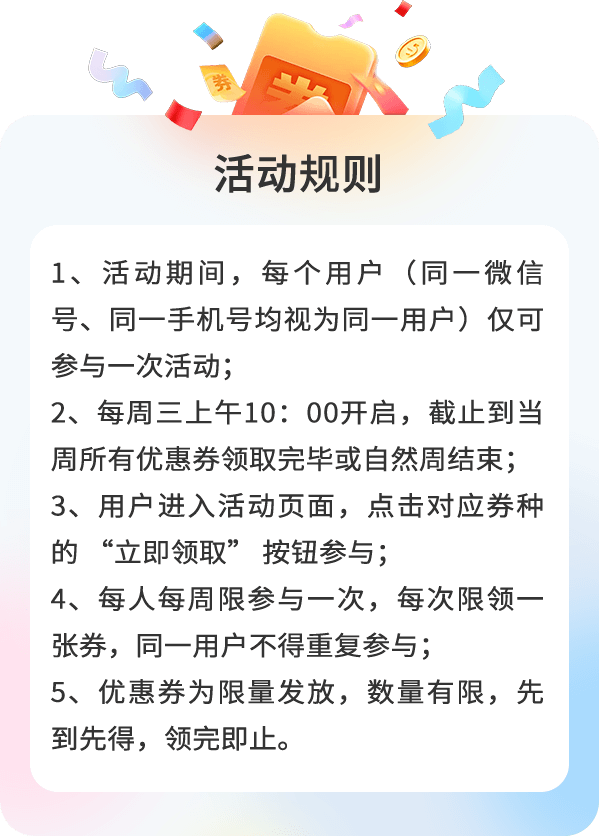
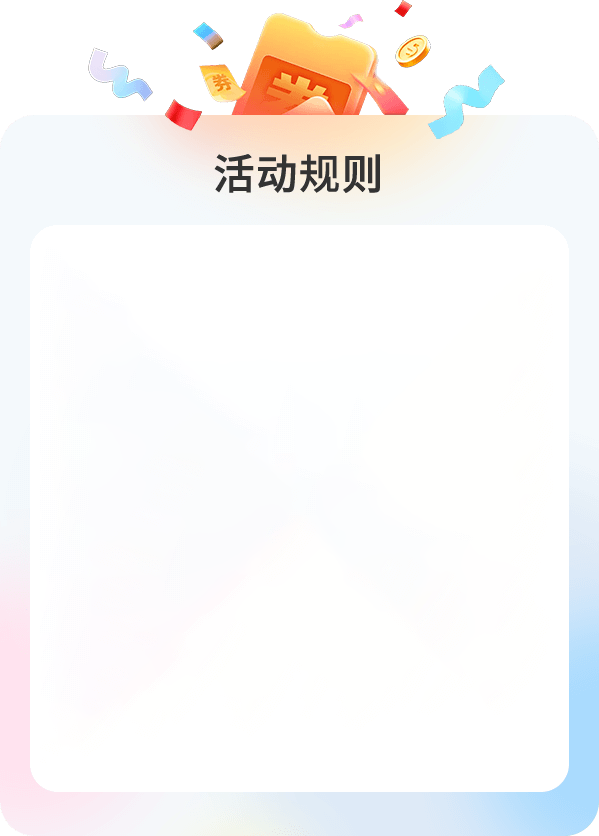
1

diff --git a/src/views/Coupons/index.vue b/src/views/Coupons/index.vue
@@ -83,7 +83,14 @@
 
     <!-- 活动规则 -->
     <van-popup :show="show.rule" class="my-popup">
-      <div class="rule-popup bg"></div>
+      <div class="rule-popup bg">
+        <ul class="content">
+          <li>1、活动期间，每个用户（同一微信号、同一手机号均视为同一用户）仅可参与一次活动；</li>
+          <li>2、每周三上午10:00开启，截止到当周所有优惠券领取完毕或自然周结束；</li>
+          <li>3、用户进入活动页面，点击对应券种的“立即领取” 按钮参与；</li>
+          <li>4、每人每周限参与一次，每次限领一张券，同一用户不得重复参与;5、优惠券为限量发放，数量有限，先到先得，领完即止。</li>
+        </ul>
+      </div>
       <div class="text-center mt-1"><van-icon name="close" color="#fff" size="2.4rem" @click="controlPopup('rule', false)"/></div>
     </van-popup>
 
@@ -251,7 +258,7 @@ const login = () => {
 };
 
 onMounted(()=>{
-  controlPopup('login', true);
+  controlPopup('rule', true);
   // showToast('请确保登录账号与生活优惠账号一致');
   // showToast('活动暂未开始');
 });

diff --git a/src/views/Coupons/css/index.scss b/src/views/Coupons/css/index.scss
@@ -290,6 +290,24 @@
   width: var(--rule-popup-W);
   height: calc(836 / 599 * var(--rule-popup-W));
   background-image: url(../image/rule_p.png);
+
+  ul.content {
+    width: 82%;
+    height: 62%;
+    position: absolute;
+    top: 30%;
+    left: 50%;
+    transform: translateX(-50%);
+    overflow-y: scroll;
+
+    li {
+      margin-top: .2rem;
+
+      &:first-child {
+        margin-top: 0;
+      }
+    }
+  }
 }
 
 .mycoupons-popup {

diff --git a/src/views/LuckyDraw/rotate.vue b/src/views/LuckyDraw/rotate.vue
@@ -19,7 +19,7 @@
 </template>
 
 <script setup>
-import { ref, defineExpose } from 'vue';
+import { ref } from 'vue';
 import 'animate.css';
 
 const emit = defineEmits(['get']);
@@ -59,7 +59,7 @@ const move = (wn = '') => {
     T1 = null;
     let T2 = setTimeout(() => {
       isPrizesAppear.value = true;
-      clearTimeout(T1);
+      clearTimeout(T2);
       T2 = null;
     }, delay.split('')[0] * 1000 + 50);
   }, 50)
